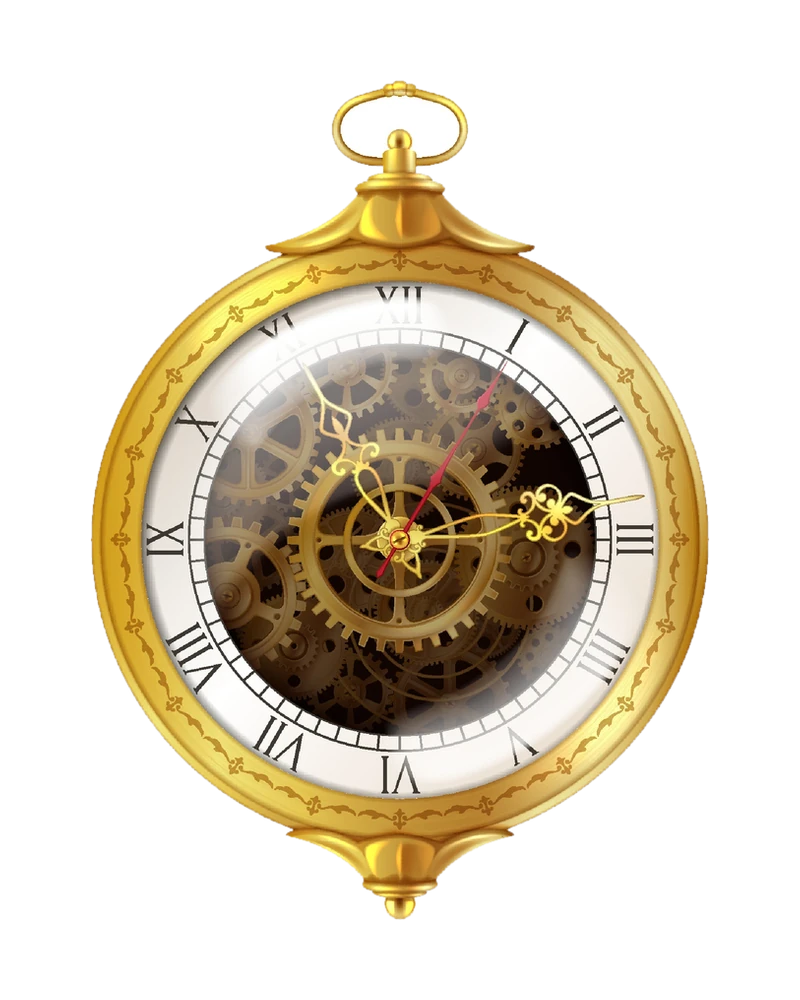
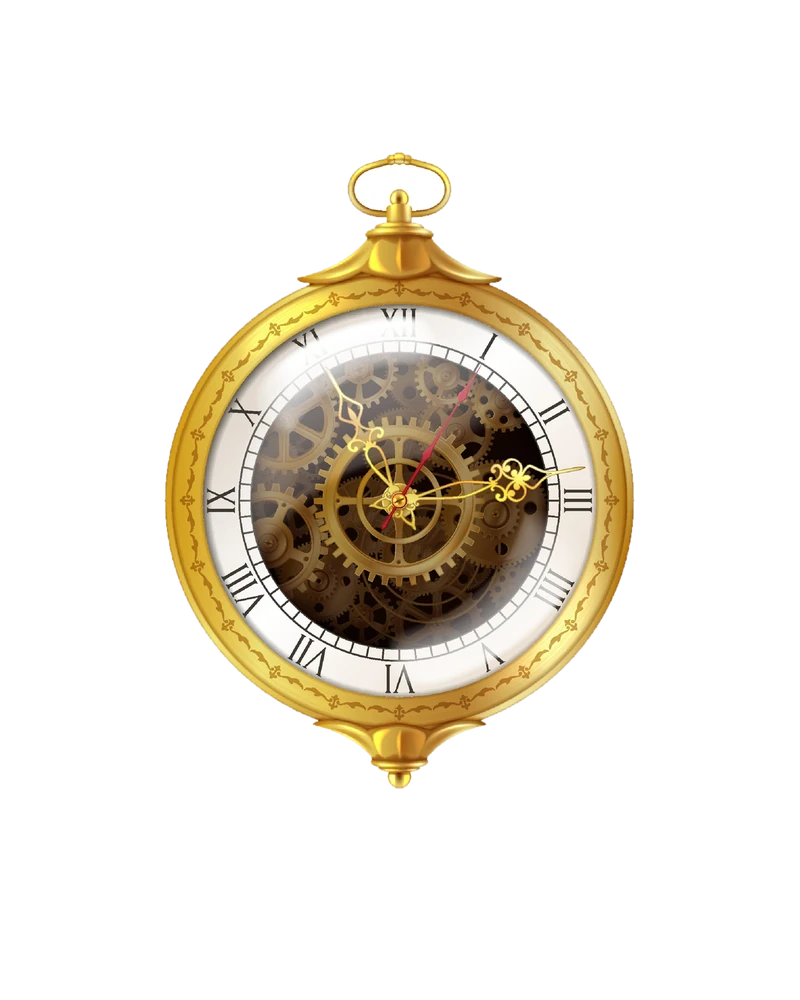
home video

diff --git a/components/about-story.tsx b/components/about-story.tsx
@@ -78,7 +78,7 @@ function ClockSlideshow({ alt }: { alt: string }) {
       <div className="absolute inset-0 bg-gradient-to-b from-transparent via-transparent to-accent/15" />
       {/* Soft glow behind the object */}
       <motion.div
-        className="absolute left-1/2 top-[46%] h-[78%] w-[78%] -translate-x-1/2 -translate-y-1/2 rounded-full bg-accent/15 blur-2xl"
+        className="absolute left-1/2 top-[47%] h-[80%] w-[80%] -translate-x-1/2 -translate-y-1/2 rounded-full bg-accent/15 blur-2xl"
         animate={reduceMotion ? undefined : { scale: [1, 1.12, 1], opacity: [0.7, 1, 0.7] }}
         transition={{ duration: 4, repeat: Number.POSITIVE_INFINITY, ease: "easeInOut" }}
       />
@@ -86,7 +86,7 @@ function ClockSlideshow({ alt }: { alt: string }) {
       {/* Tick ring that steps forward one notch per slide, like a clock */}
       <motion.svg
         viewBox="-100 -100 200 200"
-        className="absolute left-1/2 top-[46%] h-[92%] w-[92%] -translate-x-1/2 -translate-y-1/2 text-accent"
+        className="absolute left-1/2 top-[47%] h-[98%] w-[98%] -translate-x-1/2 -translate-y-1/2 text-accent"
         animate={{ rotate: index * (360 / CLOCKS.length) }}
         transition={{ type: "spring", stiffness: 160, damping: 16 }}
         aria-hidden="true"
